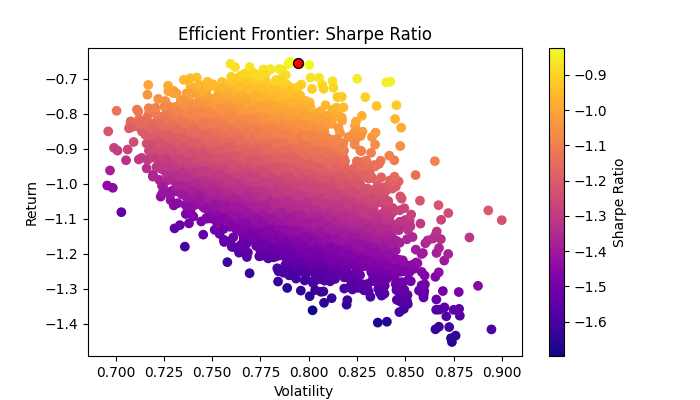
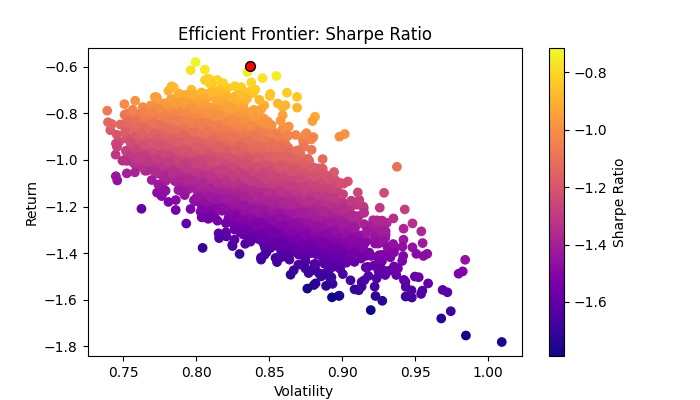
refinement

diff --git a/src/containers/portfolioOpt/index.js b/src/containers/portfolioOpt/index.js
@@ -1,12 +1,12 @@
 import React, { useState } from 'react';
-import ErrorSpinner from '../../components/spinner/error';
-import LoadingSpinner from '../../components/spinner/loading';
 import pythonLambdaService from '../../services/pythonLambda.service';
 import { CSD_INDEX } from '../../util/constants/coins';
-import { INPUT_ERROR_MSG, NETWORK_ERROR_MSG, RESP, MenuProps, INIT_COINS, HELPER_TEXTS } from './constants';
+import { RESP, MenuProps, INIT_COINS, HELPER_TEXTS } from './constants';
 import ErrorModal from '../../components/alertModal/error';
 import StatTabNav from './tabNav/statistic';
-const graphImage = require("../../assets/graphs/efficientFrontier.jpg")
+const graphImage = require('../../assets/graphs/efficientFrontier.jpg');
+import useErrorHandle from '../../hooks/useErrorHandle';
+import useSpinners from '../../hooks/useSpinners';
 
 //mau stylesheet
 import { useTheme } from '@mui/material/styles';
@@ -34,29 +34,12 @@ const PortfolioOptimization = (props) => {
   const [chosenCoins, setChosenCoins] = useState(INIT_COINS);
   const [days, setDays] = useState(300);
   const [isOver100, setIsOver100] = useState(true);
-  const [isOver2000, setIsOver2000] = useState(true);
-  const [numOfPorts, setNumOfPorts] = useState(10000);
-  const [showAlert, setShowAlert] = useState(false);
-  const [errorMessage, setErrorMessage] = useState("");
+  const [isOver1000, setIsOver1000] = useState(true);
+  const [numOfPorts, setNumOfPorts] = useState(5000);
   const [portResp, setPortResp] = useState(RESP);
-  const [isError, setIsError] = useState(false);
-  const [isLoading, setIsLoading] = useState(false);
   const [imageSrc, setImageSrc] = useState(graphImage);
-
-  const errorResponse = (e) => {
-    if(e.response) {
-      if(e.response.status == 404) {
-        setErrorMessage(INPUT_ERROR_MSG);
-        setShowAlert(true);
-      } else {
-        setErrorMessage(NETWORK_ERROR_MSG);
-        setShowAlert(true);
-      }
-    } else {
-      setErrorMessage(NETWORK_ERROR_MSG);
-      setShowAlert(true);
-    }
-  }
+  const { errorResponse, errorMessage, showAlert, setShowAlert } = useErrorHandle();
+  const { isLoading, isError, setIsError, setIsLoading, Spinners } = useSpinners();
 
   const handleSubmit = async (e) => {
     e.preventDefault();
@@ -103,11 +86,11 @@ const PortfolioOptimization = (props) => {
 
   const handleNumOfSimulationsChange = (e) => {
     let tempNum = Number(e.target.value);
-    if(tempNum >= 2000 && tempNum <= 10000) {
-      setIsOver2000(true)
+    if(tempNum >= 1000 && tempNum <= 7000) {
+      setIsOver1000(true)
       setNumOfPorts(tempNum);
     } else {
-      setIsOver2000(false);
+      setIsOver1000(false);
       setNumOfPorts(tempNum);
     }
   }
@@ -157,14 +140,14 @@ const PortfolioOptimization = (props) => {
 
           <FormControl sx={{ width: "100%", my:2 }} size="small">
             <TextField
-              error={isOver2000? false : true}
+              error={isOver1000? false : true}
               type="number"
               id="port-count-select"
               value={numOfPorts}
               label="Number of Simulations"
               onChange={handleNumOfSimulationsChange}
               size="small" variant="outlined"
-              helperText={isOver2000? HELPER_TEXTS.simSelectInfo : HELPER_TEXTS.simSelectWarning}
+              helperText={isOver1000? HELPER_TEXTS.simSelectInfo : HELPER_TEXTS.simSelectWarning}
             >
             </TextField>
           </FormControl>
@@ -174,11 +157,7 @@ const PortfolioOptimization = (props) => {
         </form>
       </div>
       {isError || isLoading ? 
-        <div className="loading-cont">
-          {isLoading ? 
-            <LoadingSpinner/> : <ErrorSpinner /> 
-          }
-        </div>
+        <Spinners />
         :
         <div className="graph-cont">
           <StatTabNav imageSrc={imageSrc} portResp={portResp}></StatTabNav>

diff --git a/src/containers/portfolioOpt/constants.js b/src/containers/portfolioOpt/constants.js
@@ -1,8 +1,3 @@
-
-const INPUT_ERROR_MSG = "Invalid input. Please try again!";
-
-const NETWORK_ERROR_MSG = "Oopse, something went wrong. Please try again later!";
-
 const RESP = { 
   "optimal-portfolio": {
       "bitcoin":"9%","ethereum":"11%","litecoin":"6%","dogecoin":"31%","monero":"37%","ripple":"5%","solana":"1%"
@@ -30,13 +25,11 @@ const INIT_COINS = ['bitcoin', 'ethereum', 'litecoin', 'dogecoin', 'monero', 'ri
 const HELPER_TEXTS = {
   daysSelectWarning: 'Must be greater than 100 and less than 600.',
   simSelectInfo: "*Greater number of simulations will take longer to calculate.",
-  simSelectWarning:  "Must be greater than 2000 and less than 10000."
+  simSelectWarning:  "Must be greater than 1000 and less than 7000."
 }
 
 module.exports = { 
   HELPER_TEXTS, 
-  INPUT_ERROR_MSG, 
-  NETWORK_ERROR_MSG, 
   RESP, ITEM_HEIGHT, 
   ITEM_PADDING_TOP, 
   MenuProps, 

diff --git a/src/hooks/useSpinners.js b/src/hooks/useSpinners.js
@@ -1,0 +1,23 @@
+import { useState } from 'react';
+import ErrorSpinner from '../components/spinner/error';
+import LoadingSpinner from '../components/spinner/loading';
+
+const useSpinners = () => {
+
+  const [isLoading, setIsLoading] = useState(false);
+  const [isError, setIsError] = useState(false);
+
+  const Spinners = () => {
+    return (
+      <div className="loading-cont">
+        {isLoading ? 
+          <LoadingSpinner/> : <ErrorSpinner /> 
+        }
+      </div>
+    );
+  }
+
+  return { isLoading, isError, setIsError, setIsLoading, Spinners };
+}
+
+export default useSpinners;

diff --git a/src/containers/portfolioOpt/portfolio.css b/src/containers/portfolioOpt/portfolio.css
@@ -37,7 +37,6 @@
 .graph-cont img {
   width: 100%;
   height: 100%;
-  border: 2px inset white;
 }
 
 @media (max-width: 1600px) { 
@@ -86,7 +85,7 @@
  @media (max-width: 600px) { 
   .portfolioOpt-outer-cont {
     flex-direction: column-reverse;
-    padding: 10px 0% 0 0%;
+    padding: 10px 3% 0 3%;
   }
   .portfolioOpt-outer-cont .graph-cont {
     padding: 10px;

diff --git a/src/containers/portfolioOpt/tabNav/tabNav.css b/src/containers/portfolioOpt/tabNav/tabNav.css
@@ -17,14 +17,13 @@
   flex-direction: row;
   justify-content: space-around;
   background-color: var(--primary-light);
-  border: 2px inset whitesmoke;
 }
 
 .stat-box-col-1 {
   width: 50%;
   padding: 10px;
   overflow: auto;
-  border-right: 6px inset whitesmoke;
+  border-right: 6px solid whitesmoke;
 }
 
 .stat-box-col-2 {
